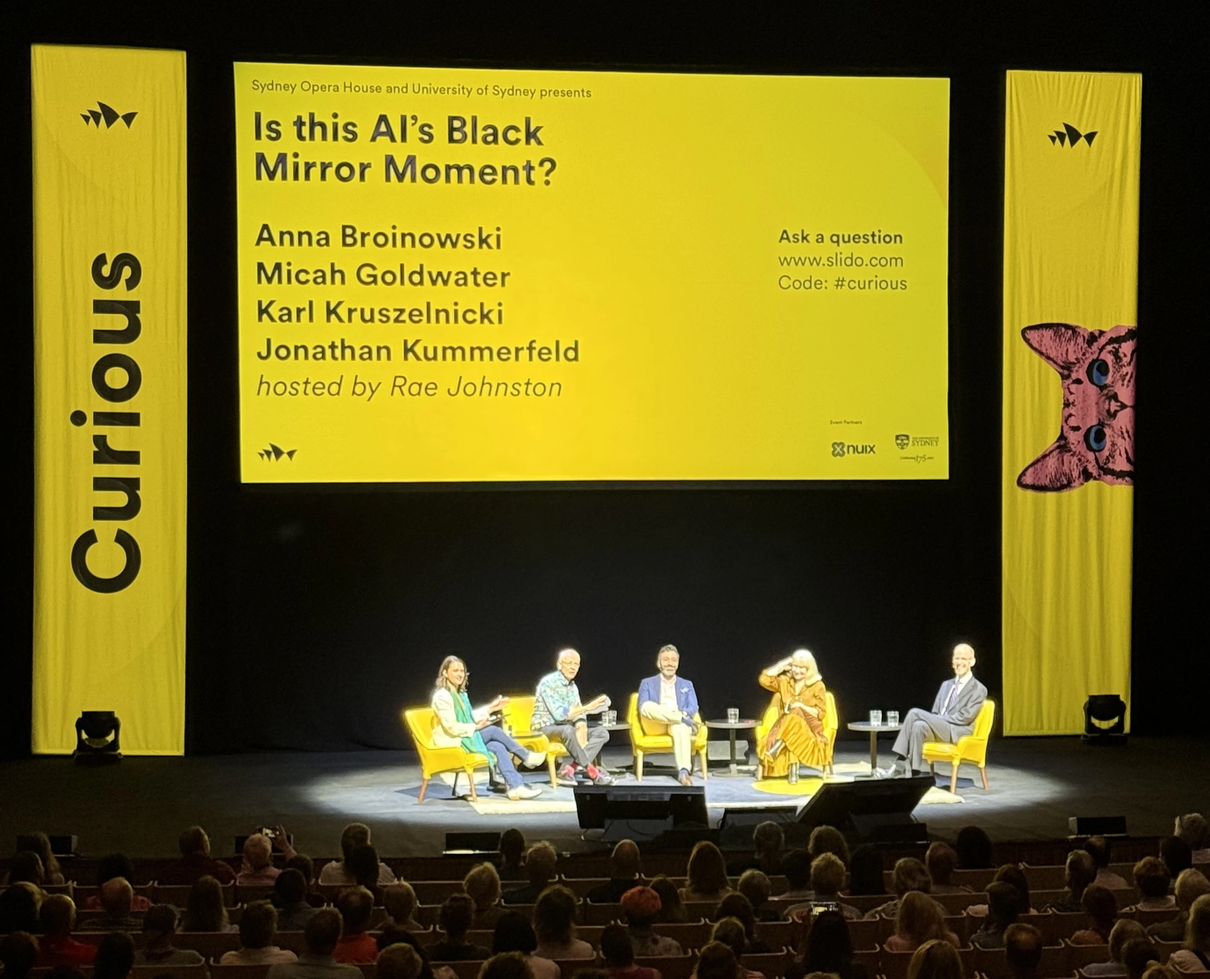
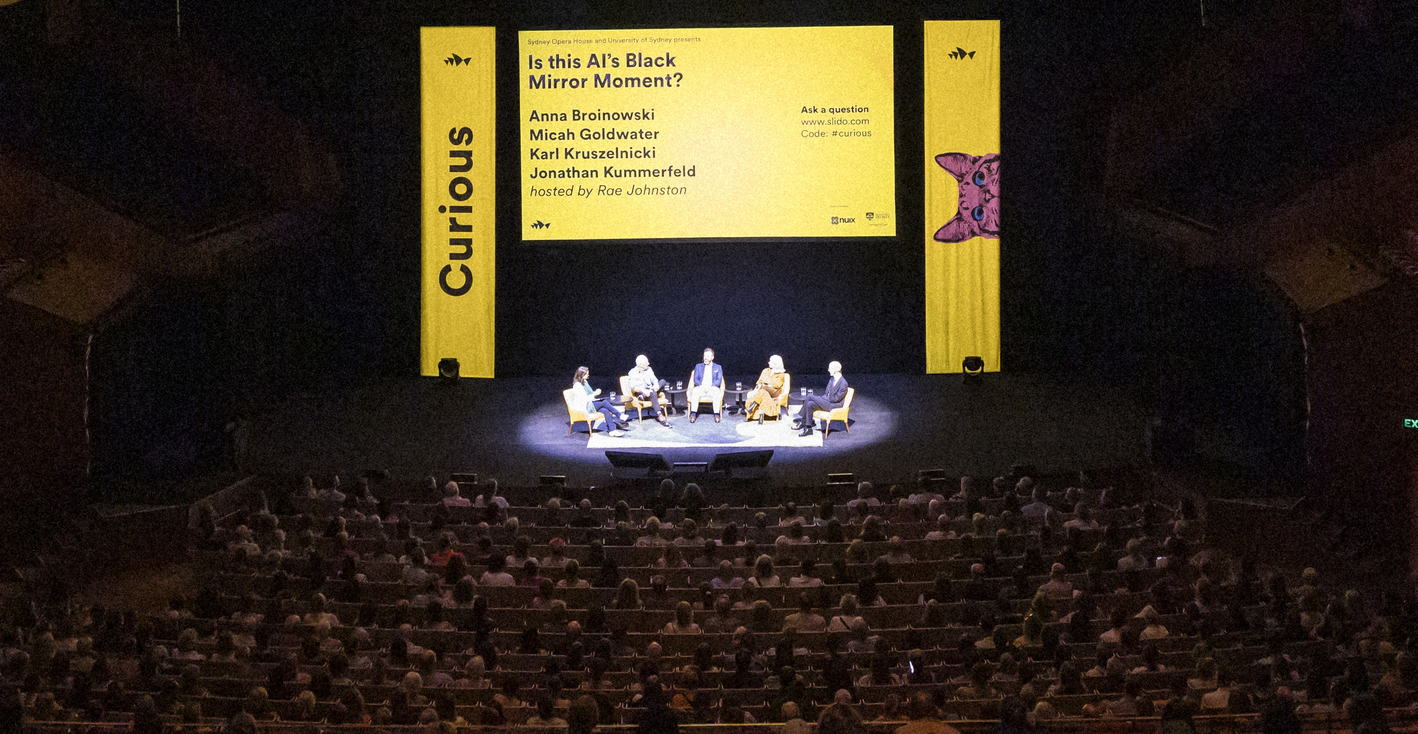
Update photo

diff --git a/bio_and_cv/index.html b/bio_and_cv/index.html
@@ -30,8 +30,8 @@
 
   <meta itemprop="name" content="Bio &amp; CV">
   <meta itemprop="description" content="Bio Jonathan K. Kummerfeld is a Senior Lecturer (ie., research tenure-track Assistant Professor) in the School of Computer Science at the University of Sydney. He is currently also a DECRA fellow, and collaborates with a range of academics across the world, including on US DARPA-funded projects on AI agents that communicate. He completed his Ph.D. at the University of California, Berkeley, and was previously a postdoctoral research fellow at the University of Michigan, and a visiting scholar at Harvard.">
-  <meta itemprop="dateModified" content="2025-09-14T08:37:33+10:00">
-  <meta itemprop="wordCount" content="1591">
+  <meta itemprop="dateModified" content="2025-09-29T08:32:40+10:00">
+  <meta itemprop="wordCount" content="1625">
   <meta name="twitter:card" content="summary">
   <meta name="twitter:title" content="Bio &amp; CV">
   <meta name="twitter:description" content="Bio Jonathan K. Kummerfeld is a Senior Lecturer (ie., research tenure-track Assistant Professor) in the School of Computer Science at the University of Sydney. He is currently also a DECRA fellow, and collaborates with a range of academics across the world, including on US DARPA-funded projects on AI agents that communicate. He completed his Ph.D. at the University of California, Berkeley, and was previously a postdoctoral research fellow at the University of Michigan, and a visiting scholar at Harvard.">
@@ -522,12 +522,13 @@ Resources and Evaluation, 2023</li>
 </ul>
 <h3 id="press">Press<a class="td-heading-self-link" href="#press" aria-label="Heading self-link"></a></h3>
 <p>Events:</p>
-
+<p>
 <figure>
     <img src="/bio_and_cv/soh-2025.jpg"
-         alt="Sydney Opera House panel event" width="600"/> 
+         alt="Curious at the Sydney Opera House in 2025, photo by David Boon" width="1200"/> 
 </figure>
 
+&ldquo;Curious&rdquo; conversation at the Sydney Opera House in 2025, photo by David Boon</p>
 <ul>
 <li>Sydney Opera House, Curious event panel, &ldquo;Is this AI&rsquo;s Black Mirror Moment?&rdquo;, September 2025</li>
 </ul>
@@ -566,6 +567,10 @@ Resources and Evaluation, 2023</li>
 <li>The Australian, <a href="https://www.theaustralian.com.au/business/technology/how-university-courses-are-changing-in-the-wake-of-ai/news-story/50d6495b17f10bb9a140c625e9fa873d">How uni courses are changing in the wake of AI</a>, March 2024</li>
 <li>Australian Doctor, <a href="https://www.ausdoc.com.au/news/doctors-are-using-it-already-is-medicine-ready-for-chatgpt/">&lsquo;Doctors like you are using it already&rsquo;: Is medicine ready for the ChatGPT revolution?</a>, May 2023</li>
 <li>IEEE Spectrum, <a href="https://spectrum.ieee.org/ai-learns-diplomacy-gaming">AI Teaches Itself Diplomacy</a>, February 2021</li>
+</ul>
+<p>Mentions:</p>
+<ul>
+<li>The AU Review, <a href="https://www.theaureview.com/arts/the-sydney-opera-house-curious/">The Sydney Opera House asked us to get Curious with a fascinating day of talks</a>, October 2025</li>
 </ul>
 <h3 id="misc">Misc<a class="td-heading-self-link" href="#misc" aria-label="Heading self-link"></a></h3>
 <p>My academic family tree is: <br />

diff --git a/students/index.html b/students/index.html
@@ -36,7 +36,7 @@ Harry Breden, Honours 2025 Benjamin Grimes, Masters Capstone 2025 Karen Hu, Daly
 Current Students Doctoral:
 Thomas Elton, Summer Scholar 2023-24, Honours 2024-2025 (university medal), Research Assistant 2025 Yidong Gan, Honours 2023, Research Assistant 2023 Sebastian Kobler Ana Clarissa Miranda Peña Ngoc Gia Hy Nguyen Kent Daniel O’Sullivan Undergraduate &amp; Masters:
 Harry Breden, Honours 2025 Benjamin Grimes, Masters Capstone 2025 Karen Hu, Dalyell 2025 Alexander Jephtha, Dalyell 2023, Summer Scholar 2023-24, Research Assistant 2024, Honours 2025 Andrew Kondopoulos, Masters Capstone 2025 Ka Weng Pan, Summer Research Assistant 2024-25, Honours 2025 Cristian Izquierdo Romero, Masters Capstone 2025 Ella WIlson, Masters Capstone 2025 Rosy Yu, Dalyell 2025 Past Doctoral (current affiliation in brackets):">
-  <meta itemprop="dateModified" content="2025-09-15T06:20:20+10:00">
+  <meta itemprop="dateModified" content="2025-09-29T08:32:40+10:00">
   <meta itemprop="wordCount" content="486">
   <meta name="twitter:card" content="summary">
   <meta name="twitter:title" content="Students">

diff --git a/pubs/index.html b/pubs/index.html
@@ -31,7 +31,7 @@
 
   <meta itemprop="name" content="Publications">
   <meta itemprop="description" content="These are my publications and prepints.">
-  <meta itemprop="dateModified" content="2025-08-21T20:29:00+10:00">
+  <meta itemprop="dateModified" content="2025-09-29T08:32:40+10:00">
   <meta itemprop="wordCount" content="18799">
   <meta name="twitter:card" content="summary">
   <meta name="twitter:title" content="Publications">
